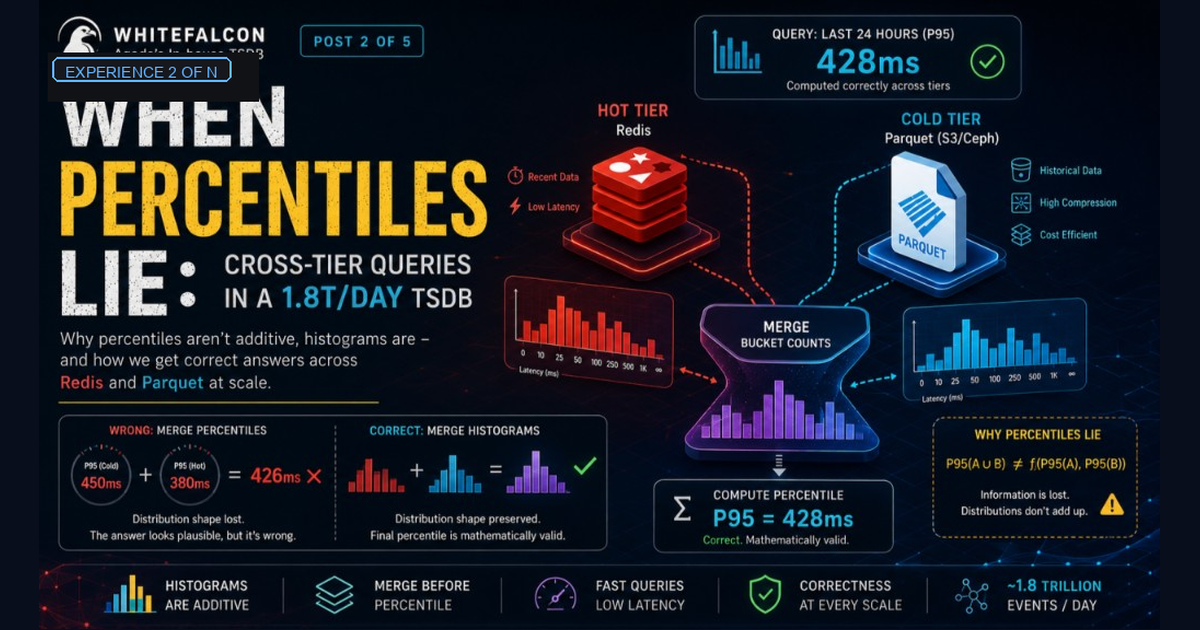
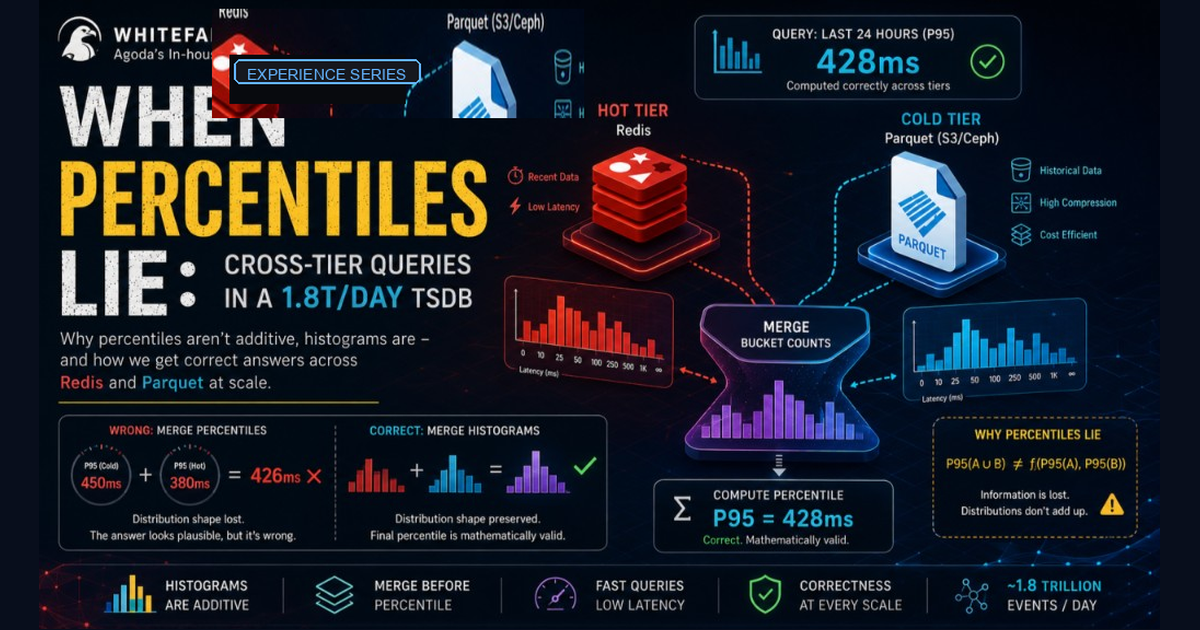
feat(blog): cover art without episode numbering
Regenerate all 1200×630 covers with series-only badges; episode kickers stay in HTML only.

Changed region(s): [[0.0308, 0.0, 0.4625, 0.2111], [0.4625, 0.0603, 0.4933, 0.2111]]

diff --git a/scripts/generate_blog_covers.py b/scripts/generate_blog_covers.py
@@ -5,6 +5,9 @@ Modes:
   --rich (default)  Copy user infographic art (with badge fixes) or pre-generated rich PNGs.
   --plain           Deprecated: dark grid + plain text (avoid for published posts).
 
+Cover badges: series label only (no Day X, Experience N, Post X of N on the image).
+Episode numbers belong in HTML kickers/meta, not on cover art.
+
 User art lives outside the repo; set PROFILE_COVER_ASSETS to override the default path.
 Rich AI-generated PNGs for posts without user art: scripts/cover_assets_rich/ (committed).
 """
@@ -28,30 +31,29 @@ DEFAULT_ASSETS = Path(
 
 # LinkedIn / Open Graph standard (1.91:1). All exports are exactly W×H — never square.
 W, H = 1200, 630
-COVER_ASPECT = W / H  # 1.904761…
 LETTERBOX_BG = (8, 14, 28)  # dark bars for square/tall sources
 
-# slug → (source filename under assets dir, new badge text)
-USER_ART: dict[str, tuple[str, str]] = {
-    "day-1-kv-cache-memory-bandwidth": (
-        "image-867abcea-3cc1-4eb4-bdaf-3b68e8c15f3a.png",
-        "DAY 1 OF N",
-    ),
-    "day-2-continuous-batching-vllm": (
-        "image-93553678-49bb-4ff3-8e77-8d51800cd048.png",
-        "DAY 2 OF N",
-    ),
-    "when-percentiles-lie-cross-tier-queries": (
-        "image-4fab7b85-37ca-479b-995c-6b2732134a0e.png",
-        "EXPERIENCE 2 OF N",
-    ),
-    "seven-million-iot-sensors-failure-modes": (
-        "image-d0c044a3-cbb9-43bf-8b90-31f83b07c948.png",
-        "EXPERIENCE 3 OF N",
-    ),
+# slug → series label painted on cover (no episode / day numbering)
+SERIES_LABEL: dict[str, str] = {
+    "day-0-series-roadmap": "AI LEARNING SERIES",
+    "day-1-kv-cache-memory-bandwidth": "AI LEARNING SERIES",
+    "day-2-continuous-batching-vllm": "AI LEARNING SERIES",
+    "day-3-token-budgets-cost-structure": "AI LEARNING SERIES",
+    "building-tsdb-at-agoda": "EXPERIENCE SERIES",
+    "when-percentiles-lie-cross-tier-queries": "EXPERIENCE SERIES",
+    "seven-million-iot-sensors-failure-modes": "EXPERIENCE SERIES",
+    "building-ai-inference-observability": "LENSAI · PRODUCT",
 }
 
-# slug → filename under cover_assets_rich/ (or DEFAULT_ASSETS before first commit)
+# slug → source filename under assets dir (user-provided infographic art)
+USER_ART: dict[str, str] = {
+    "day-1-kv-cache-memory-bandwidth": "image-867abcea-3cc1-4eb4-bdaf-3b68e8c15f3a.png",
+    "day-2-continuous-batching-vllm": "image-93553678-49bb-4ff3-8e77-8d51800cd048.png",
+    "when-percentiles-lie-cross-tier-queries": "image-4fab7b85-37ca-479b-995c-6b2732134a0e.png",
+    "seven-million-iot-sensors-failure-modes": "image-d0c044a3-cbb9-43bf-8b90-31f83b07c948.png",
+}
+
+# slug → filename under cover_assets_rich/
 RICH_GENERATED: dict[str, str] = {
     "day-0-series-roadmap": "day-0-series-roadmap.png",
     "day-3-token-budgets-cost-structure": "day-3-token-budgets-cost-structure.png",
@@ -59,49 +61,49 @@ RICH_GENERATED: dict[str, str] = {
     "building-ai-inference-observability": "building-ai-inference-observability.png",
 }
 
-ALL_SLUGS = list(USER_ART) + list(RICH_GENERATED)
+ALL_SLUGS = list(SERIES_LABEL)
 
 # Deprecated plain-text specs ( --plain only )
 PLAIN_SPECS = [
     (
         "day-0-series-roadmap",
-        "DAY 0 OF N · AI LEARNING SERIES",
+        "AI LEARNING SERIES",
         "Why I'm Writing This Series",
         (91, 211, 122),
     ),
     (
         "day-1-kv-cache-memory-bandwidth",
-        "DAY 1 OF N · AI LEARNING SERIES",
+        "AI LEARNING SERIES",
         "The KV Cache Is a\nMemory Bandwidth Problem",
         (91, 211, 122),
     ),
     (
         "day-2-continuous-batching-vllm",
-        "DAY 2 OF N · AI LEARNING SERIES",
+        "AI LEARNING SERIES",
         "Continuous Batching in vLLM:\nThe Scheduler Design That\nKeeps GPUs Busy",
         (91, 211, 122),
     ),
     (
         "day-3-token-budgets-cost-structure",
-        "DAY 3 OF N · AI LEARNING SERIES",
+        "AI LEARNING SERIES",
         "Token Budgets and\nReal Cost Structure",
         (91, 211, 122),
     ),
     (
         "building-tsdb-at-agoda",
-        "EXPERIENCE 1 OF N",
+        "EXPERIENCE SERIES",
         "1.5 Trillion Events/Day\nTSDB at Agoda",
         (147, 197, 253),
     ),
     (
         "when-percentiles-lie-cross-tier-queries",
-        "EXPERIENCE 2 OF N",
+        "EXPERIENCE SERIES",
         "When Percentiles Lie:\nCross-Tier Queries in a\n1.8T/day TSDB",
         (147, 197, 253),
     ),
     (
         "seven-million-iot-sensors-failure-modes",
-        "EXPERIENCE 3 OF N",
+        "EXPERIENCE SERIES",
         "Seven Million IoT Sensors\n— Failure Modes Textbooks Skip",
         (147, 197, 253),
     ),
@@ -142,42 +144,64 @@ def resize_cover(img: Image.Image, bg: tuple[int, int, int] = LETTERBOX_BG) -> I
     return canvas
 
 
-def _patch_badge_day1(img: Image.Image, badge: str) -> Image.Image:
-    """Yellow brush badge, upper-left."""
+def _draw_series_pill(
+    draw: ImageDraw.ImageDraw,
+    label: str,
+    *,
+    cx: int,
+    cy: int,
+    font_size: int = 15,
+    fill: tuple[int, int, int] = (28, 28, 32),
+    outline: tuple[int, int, int] = (80, 120, 200),
+    text_fill: tuple[int, int, int] = (220, 225, 235),
+    pad_x: int = 20,
+    pad_y: int = 7,
+    radius: int = 8,
+) -> None:
+    font = _font(font_size, bold=False)
+    bbox = draw.textbbox((0, 0), label, font=font)
+    tw, th = bbox[2] - bbox[0], bbox[3] - bbox[1]
+    x0 = cx - tw // 2 - pad_x
+    y0 = cy - th // 2 - pad_y
+    x1 = cx + tw // 2 + pad_x
+    y1 = cy + th // 2 + pad_y
+    draw.rounded_rectangle(
+        [x0, y0, x1, y1],
+        radius=radius,
+        fill=fill,
+        outline=outline,
+        width=1,
+    )
+    draw.text((x0 + pad_x, y0 + pad_y), label, fill=text_fill, font=font)
+
+
+def _patch_badge_day1(img: Image.Image, label: str) -> Image.Image:
+    """Yellow brush badge, upper-left — replace DAY X OF 30."""
     draw = ImageDraw.Draw(img)
-    # Cover old "DAY 1 OF 30" brush (~1024×575 source coords)
     draw.rectangle([8, 6, 268, 98], fill=(8, 14, 28))
-    # Brush stroke
     draw.rounded_rectangle([18, 18, 248, 82], radius=14, fill=(245, 200, 35))
-    font = _font(26)
-    draw.text((36, 34), badge, fill=(12, 12, 12), font=font)
+    font = _font(22)
+    bbox = draw.textbbox((0, 0), label, font=font)
+    tw = bbox[2] - bbox[0]
+    tx = 133 - tw // 2
+    draw.text((tx, 34), label, fill=(12, 12, 12), font=font)
     return img
 
 
-def _patch_badge_day2(img: Image.Image, badge: str) -> Image.Image:
-    """Center-top dark pill."""
+def _patch_badge_day2(img: Image.Image, label: str) -> Image.Image:
+    """Center-top pill — remove DAY X OF 30 split badge."""
+    x0, y0, x1, y1 = 248, 4, 776, 58
+    # Blend with nearby header pixels instead of flat fill
+    sample = img.crop((x0, y1 + 4, x1, y1 + 36)).resize((x1 - x0, y1 - y0), Image.Resampling.LANCZOS)
+    img.paste(sample, (x0, y0))
     draw = ImageDraw.Draw(img)
-    draw.rectangle([318, 4, 706, 58], fill=(18, 18, 20))
-    label = f"{badge} | AI LEARNING SERIES"
-    font = _font(15, bold=False)
-    bbox = draw.textbbox((0, 0), label, font=font)
-    tw = bbox[2] - bbox[0]
-    px = (img.width - tw) // 2 - 20
-    py = 14
-    draw.rounded_rectangle(
-        [px, py, px + tw + 40, py + 32],
-        radius=8,
-        fill=(28, 28, 32),
-        outline=(80, 120, 200),
-        width=1,
-    )
-    draw.text((px + 20, py + 7), label, fill=(220, 225, 235), font=font)
+    _draw_series_pill(draw, label, cx=img.width // 2, cy=28, font_size=15)
     return img
 
 
 def _patch_badge_experience_pill(
     img: Image.Image,
-    badge: str,
+    label: str,
     *,
     box: tuple[int, int, int, int],
     accent: tuple[int, int, int],
@@ -185,10 +209,10 @@ def _patch_badge_experience_pill(
 ) -> Image.Image:
     draw = ImageDraw.Draw(img)
     x0, y0, x1, y1 = box
-    draw.rectangle([x0 - 4, y0 - 4, x1 + 80, y1 + 4], fill=bg)
+    draw.rectangle([x0 - 4, y0 - 4, x1 + 4, y1 + 4], fill=bg)
     font = _font(14, bold=False)
     pad_x, pad_y = 12, 6
-    bbox = draw.textbbox((0, 0), badge, font=font)
+    bbox = draw.textbbox((0, 0), label, font=font)
     tw, th = bbox[2] - bbox[0], bbox[3] - bbox[1]
     px, py = x0, y0
     draw.rounded_rectangle(
@@ -198,23 +222,100 @@ def _patch_badge_experience_pill(
         outline=accent,
         width=2,
     )
-    draw.text((px + pad_x, py + pad_y), badge, fill=accent, font=font)
+    draw.text((px + pad_x, py + pad_y), label, fill=accent, font=font)
     return img
 
 
-def fix_badge(slug: str, img: Image.Image, badge: str) -> Image.Image:
+def _patch_rich_ai_learning_badge_tl(img: Image.Image, label: str) -> Image.Image:
+    """Green-outline top-left badge on 1536×1024 rich AI Learning covers."""
+    draw = ImageDraw.Draw(img)
+    draw.rectangle([24, 20, 560, 108], fill=(8, 14, 28))
+    font = _font(20, bold=False)
+    pad_x, pad_y = 16, 10
+    bbox = draw.textbbox((0, 0), label, font=font)
+    tw, th = bbox[2] - bbox[0], bbox[3] - bbox[1]
+    px, py = 40, 36
+    draw.rounded_rectangle(
+        [px, py, px + tw + pad_x * 2 + 8, py + th + pad_y * 2],
+        radius=10,
+        fill=(12, 20, 16),
+        outline=(91, 211, 122),
+        width=2,
+    )
+    draw.text((px + pad_x, py + pad_y), label, fill=(91, 211, 122), font=font)
+    return img
+
+
+def _patch_rich_day3_badge_tr(img: Image.Image) -> Image.Image:
+    """Top-right circuit badge with DAY 3 OF N on day-3 cover."""
+    x0, y0, x1, y1 = 1080, 12, 1520, 130
+    sample = img.crop((x0, y1 + 8, x1, y1 + 48)).resize(
+        (x1 - x0, y1 - y0), Image.Resampling.LANCZOS
+    )
+    img.paste(sample, (x0, y0))
+    return img
+
+
+def _patch_rich_experience_badge_tr(img: Image.Image, label: str) -> Image.Image:
+    """Top-right experience pill on building-tsdb rich cover."""
+    draw = ImageDraw.Draw(img)
+    draw.rectangle([1120, 16, 1520, 88], fill=(8, 14, 28))
+    font = _font(18, bold=False)
+    pad_x, pad_y = 14, 8
+    bbox = draw.textbbox((0, 0), label, font=font)
+    tw, th = bbox[2] - bbox[0], bbox[3] - bbox[1]
+    px = 1500 - tw - pad_x * 2
+    py = 28
+    draw.rounded_rectangle(
+        [px, py, px + tw + pad_x * 2, py + th + pad_y * 2],
+        radius=8,
+        fill=(18, 24, 36),
+        outline=(100, 180, 255),
+        width=2,
+    )
+    draw.text((px + pad_x, py + pad_y), label, fill=(100, 180, 255), font=font)
+    return img
+
+
+def fix_badge(slug: str, img: Image.Image) -> Image.Image:
+    label = SERIES_LABEL.get(slug, "")
+    if not label:
+        return img
     if slug == "day-1-kv-cache-memory-bandwidth":
-        return _patch_badge_day1(img, badge)
+        return _patch_badge_day1(img, label)
     if slug == "day-2-continuous-batching-vllm":
-        return _patch_badge_day2(img, badge)
+        return _patch_badge_day2(img, label)
     if slug == "when-percentiles-lie-cross-tier-queries":
+        x0, y0, x1, y1 = 158, 8, 498, 108
+        # Inpaint POST X OF N zone from nearby dark grid (keep WHITEFALCON intact)
+        sample = img.crop((520, 118, 920, 188)).resize(
+            (x1 - x0, y1 - y0), Image.Resampling.LANCZOS
+        )
+        img.paste(sample, (x0, y0))
         return _patch_badge_experience_pill(
-            img, badge, box=(12, 52, 120, 88), accent=(100, 180, 255)
+            img,
+            label,
+            box=(178, 54, 330, 90),
+            accent=(100, 180, 255),
+            bg=(8, 10, 14),
         )
     if slug == "seven-million-iot-sensors-failure-modes":
-        return _patch_badge_experience_pill(
-            img, badge, box=(198, 18, 310, 52), accent=(0, 210, 230), bg=(10, 12, 16)
+        x0, y0, x1, y1 = 168, 6, 420, 68
+        sample = img.crop((x0, y1 + 8, x1, y1 + 44)).resize(
+            (x1 - x0, y1 - y0), Image.Resampling.LANCZOS
         )
+        img.paste(sample, (x0, y0))
+        return _patch_badge_experience_pill(
+            img, label, box=(188, 24, 340, 60), accent=(0, 210, 230), bg=(10, 12, 16)
+        )
+    if slug == "day-0-series-roadmap":
+        return _patch_rich_ai_learning_badge_tl(img, label)
+    if slug == "day-3-token-budgets-cost-structure":
+        img = _patch_rich_ai_learning_badge_tl(img, label)
+        return _patch_rich_day3_badge_tr(img)
+    if slug == "building-tsdb-at-agoda":
+        return _patch_rich_experience_badge_tr(img, label)
+    # building-ai-inference-observability: LENSAI · PRODUCT already in source art
     return img
 
 
@@ -225,15 +326,15 @@ def write_cover(slug: str, img: Image.Image) -> None:
     cover_path = COVERS_DIR / f"{slug}.png"
     out.save(cover_path, "PNG", optimize=True)
     shutil.copy2(cover_path, OG_DIR / f"{slug}.png")
-    print(f"  ✓ {slug}.png  ({out.size[0]}×{out.size[1]})")
+    print(f"  ✓ {slug}.png  ({out.size[0]}×{out.size[1]})  badge: {SERIES_LABEL.get(slug, '—')}")
 
 
-def process_user_art(assets_dir: Path, slug: str, filename: str, badge: str) -> None:
+def process_user_art(assets_dir: Path, slug: str, filename: str) -> None:
     src = assets_dir / filename
     if not src.exists():
         raise FileNotFoundError(f"User art missing: {src}")
     img = Image.open(src).convert("RGB")
-    img = fix_badge(slug, img, badge)
+    img = fix_badge(slug, img)
     write_cover(slug, img)
 
 
@@ -241,7 +342,9 @@ def process_rich_generated(slug: str, filename: str) -> None:
     for base in (RICH_GENERATED_DIR, DEFAULT_ASSETS):
         src = base / filename
         if src.exists():
-            write_cover(slug, Image.open(src))
+            img = Image.open(src).convert("RGB")
+            img = fix_badge(slug, img)
+            write_cover(slug, img)
             return
     raise FileNotFoundError(
         f"No rich cover for {slug}: expected {RICH_GENERATED_DIR / filename}"
@@ -253,8 +356,7 @@ def run_rich(assets_dir: Path, slugs: list[str] | None = None) -> None:
     print("Rich infographic covers → blog/assets/{covers,og}/")
     for slug in targets:
         if slug in USER_ART:
-            fname, badge = USER_ART[slug]
-            process_user_art(assets_dir, slug, fname, badge)
+            process_user_art(assets_dir, slug, USER_ART[slug])
         elif slug in RICH_GENERATED:
             process_rich_generated(slug, RICH_GENERATED[slug])
         else:

diff --git a/blog/NEW-POST-CHECKLIST.md b/blog/NEW-POST-CHECKLIST.md
@@ -35,7 +35,7 @@ Use this whenever you publish a post in an existing series.
   - `og:image` + `og:image:width` (1200) + `og:image:height` (630) — **absolute HTTPS** URL, e.g. `https://akshantvats.github.io/Profile/blog/assets/og/<slug>.png`
   - `twitter:card` = `summary_large_image` and `twitter:image` (same URL as `og:image`)
   - Reuse patterns from the latest post in the same series; defaults: `default-experience.png`, `default-ai-learning.png`, `default-lensai.png`
-  - **Badge on cover art:** open-ended only — `Day X of N`, `Experience X of N`, or `LensAI · Product`. Never `of 30`, `1 of 5`, `Post 2/5`, or fixed totals on the infographic.
+  - **Badge on cover art:** series label only — `AI LEARNING SERIES`, `EXPERIENCE SERIES`, or `LENSAI · PRODUCT` (plus the post title as the main headline on the infographic). Do **not** put episode numbers on the PNG (`Day X of N`, `Experience X of N`, `Post 2 of 5`, `3 of N`, etc.). Episode kickers stay in HTML tags/meta and sidebar only.
 - [ ] **On-page cover** — after `</header>`, before `.post-layout` / prose:
   ```html
   <figure class="post-cover">
